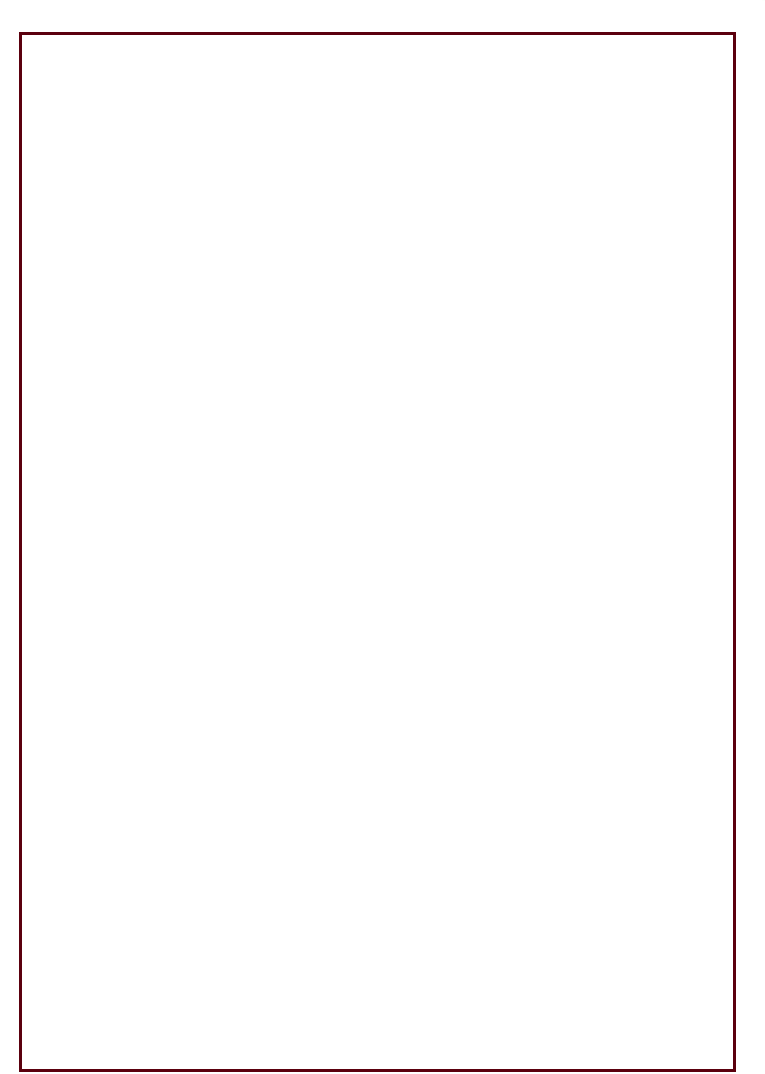
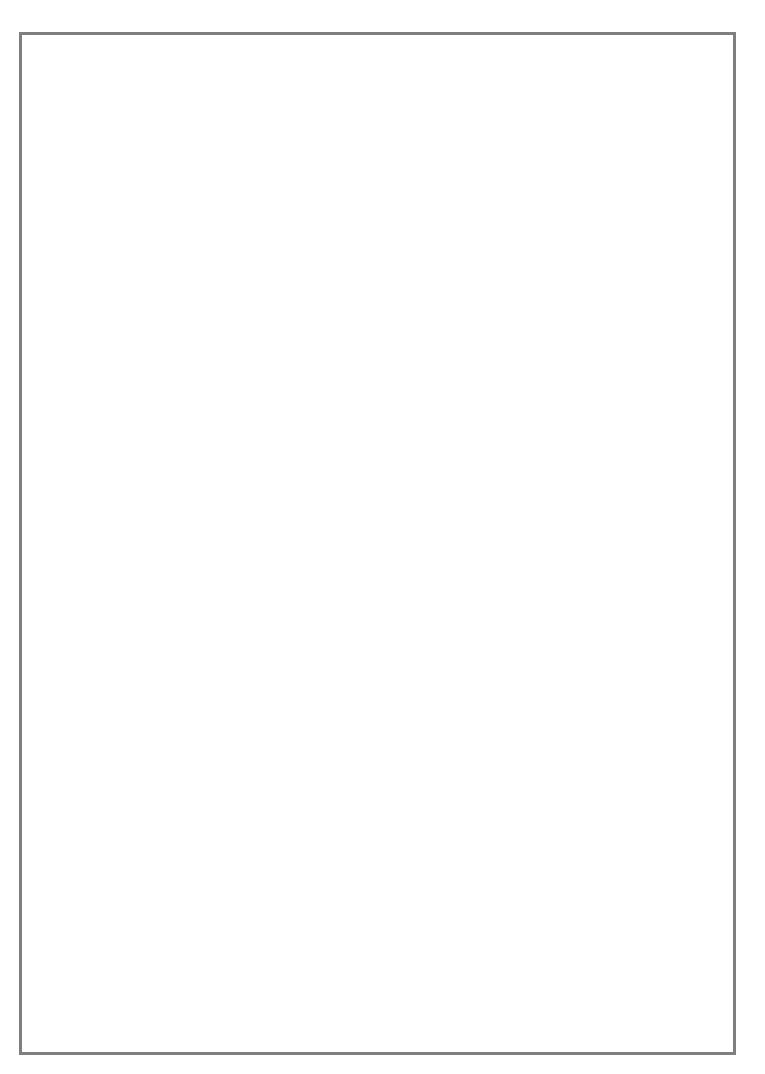
Agregar marcos en reporte de corte

Changed region(s): [[0.0, 0.0307, 0.9621, 1.0]]

diff --git a/js/events.js b/js/events.js
@@ -3630,10 +3630,11 @@ function aceptar_guardar_corte(){
 
 // Guardar un corte
 function guardar_corte(){
-    var usuario_id=localStorage.getItem("id");
+    //var usuario_id=localStorage.getItem("id");
+    var usuario_id= 4;
     $('#caja_herramientas').modal('hide');
 
-    var datos = {
+    /*var datos = {
             "usuario_id": usuario_id,
         };
     $.ajax({
@@ -3648,9 +3649,9 @@ function guardar_corte(){
             //success:problemas_sistema,
             timeout:5000,
             error:problemas_sistema
-        });    
-    //window.open("includes/reporte_corte.php?usuario_id="+usuario_id);
-    guardar_reporte_corte();
+        });    */
+    window.open("includes/reporte_corte.php?usuario_id="+usuario_id);
+    //guardar_reporte_corte();
     return false;
 }
 

diff --git a/includes/reporte_corte.php b/includes/reporte_corte.php
@@ -26,11 +26,11 @@
   // Primera pagina
   $pdf->AddPage();
   // Marco primera pagina
-  //$pdf->Image($fondo_uno,4.8,9,205);
+  $pdf->Image("../images/hoja_margen.png",1.5,-2,211,295);
   // Logo
   //$pdf->Image($imagen,10,8,45);
   // Salto de línea
-  //$pdf->Ln(1);
+  $pdf->Ln(1);
 
   // Fecha y datos generales 
   $pdf->SetFont('Arial','B',8);
@@ -108,12 +108,12 @@
   $pdf->Cell(100,8,iconv("UTF-8", "ISO-8859-1",'Ventas Restaurante'),0,1,'C');
   $pdf->SetFont('Arial','B',7);
   $pdf->SetTextColor(255, 255, 255);
-  $pdf->Cell(42,4,iconv("UTF-8", "ISO-8859-1",'Producto'),0,0,'C',True);
-  $pdf->Cell(10,4,iconv("UTF-8", "ISO-8859-1",'Venta'),0,0,'C',True);
-  $pdf->Cell(15,4,iconv("UTF-8", "ISO-8859-1",'Precio'),0,0,'C',True);
-  $pdf->Cell(15,4,iconv("UTF-8", "ISO-8859-1",'Total'),0,0,'C',True);
-  $pdf->Cell(12,4,iconv("UTF-8", "ISO-8859-1",'En Hab.'),0,0,'C',True);
-  $pdf->Cell(12,4,iconv("UTF-8", "ISO-8859-1",'En Rest.'),0,1,'C',True);
+  $pdf->Cell(42,4,iconv("UTF-8", "ISO-8859-1",'Producto'),1,0,'C',True);
+  $pdf->Cell(10,4,iconv("UTF-8", "ISO-8859-1",'Venta'),1,0,'C',True);
+  $pdf->Cell(15,4,iconv("UTF-8", "ISO-8859-1",'Precio'),1,0,'C',True);
+  $pdf->Cell(15,4,iconv("UTF-8", "ISO-8859-1",'Total'),1,0,'C',True);
+  $pdf->Cell(12,4,iconv("UTF-8", "ISO-8859-1",'En Hab.'),1,0,'C',True);
+  $pdf->Cell(12,4,iconv("UTF-8", "ISO-8859-1",'En Rest.'),1,1,'C',True);
   $pdf->SetFont('Arial','',7);
   $pdf->SetTextColor(0,0,0);
   $cantidad= count($inf->producto_nombre);
@@ -138,9 +138,9 @@
   $pdf->SetFont('Arial','B',7);
   $pdf->SetTextColor(255, 255, 255);
   $pdf->Cell(120,4,iconv("UTF-8", "ISO-8859-1",''),0,0,'C');
-  $pdf->Cell(32,4,iconv("UTF-8", "ISO-8859-1",'Tipo'),0,0,'C',True);
-  $pdf->Cell(20,4,iconv("UTF-8", "ISO-8859-1",'Cant.'),0,0,'C',True);
-  $pdf->Cell(20,4,iconv("UTF-8", "ISO-8859-1",'Total'),0,1,'C',True);
+  $pdf->Cell(32,4,iconv("UTF-8", "ISO-8859-1",'Tipo'),1,0,'C',True);
+  $pdf->Cell(20,4,iconv("UTF-8", "ISO-8859-1",'Cant.'),1,0,'C',True);
+  $pdf->Cell(20,4,iconv("UTF-8", "ISO-8859-1",'Total'),1,1,'C',True);
   $pdf->SetFont('Arial','',7);
   $pdf->SetTextColor(0,0,0);
   $cantidad= $tipo->total_elementos();
@@ -179,8 +179,8 @@
   $pdf->SetFont('Arial','B',7);
   $pdf->SetTextColor(255, 255, 255);
   $pdf->Cell(120,4,iconv("UTF-8", "ISO-8859-1",''),0,0,'C');
-  $pdf->Cell(46,4,iconv("UTF-8", "ISO-8859-1",'Concepto'),0,0,'C',True);
-  $pdf->Cell(26,4,iconv("UTF-8", "ISO-8859-1",'Total'),0,1,'C',True);
+  $pdf->Cell(46,4,iconv("UTF-8", "ISO-8859-1",'Concepto'),1,0,'C',True);
+  $pdf->Cell(26,4,iconv("UTF-8", "ISO-8859-1",'Total'),1,1,'C',True);
   $pdf->SetFont('Arial','',7);
   $pdf->SetTextColor(0,0,0);
   //$cantidad= $tipo->total_elementos();
@@ -214,8 +214,8 @@
   $pdf->SetFont('Arial','B',7);
   $pdf->SetTextColor(255, 255, 255);
   $pdf->Cell(120,4,iconv("UTF-8", "ISO-8859-1",''),0,0,'C');
-  $pdf->Cell(46,4,iconv("UTF-8", "ISO-8859-1",'Concepto'),0,0,'C',True);
-  $pdf->Cell(26,4,iconv("UTF-8", "ISO-8859-1",'Total'),0,1,'C',True);
+  $pdf->Cell(46,4,iconv("UTF-8", "ISO-8859-1",'Concepto'),1,0,'C',True);
+  $pdf->Cell(26,4,iconv("UTF-8", "ISO-8859-1",'Total'),1,1,'C',True);
   $pdf->SetFont('Arial','',7);
   $pdf->SetTextColor(0,0,0);
   $cantidad= $forma_pago->total_elementos();
@@ -229,13 +229,13 @@
 
   $corte_id= $corte->ultima_insercion();
   // Cambiar concepto a inactivo
-  $concepto->cambiar_activo($_GET['usuario_id']);
+  //$concepto->cambiar_activo($_GET['usuario_id']);
   // Cambiar ticket a estado 1 (en corte) y poner el corte que le corresponde
-  $ticket->editar_estado($_GET['usuario_id'],$corte_id,1);
+  //$ticket->editar_estado($_GET['usuario_id'],$corte_id,1);
   
   $logs->guardar_log($_GET['usuario_id'],"Reporte corte con etiqueta: ".$nueva_etiqueta.' del '.$dia.' de '.$mes.' de '.$anio); 
   //$pdf->Output("reporte_corte.pdf","I");// I muestra y F descarga con directorio y D descarga en descargas
-  $pdf->Output("../reportes/corte/reporte_corte_".$nueva_etiqueta.".pdf","F");
+  $pdf->Output("../reportes/corte/reporte_corte_".$nueva_etiqueta.".pdf","I");
   //$pdf->Output("../reportes/reservaciones/cargo_noche/reporte_corte.pdf","I");
       //echo 'Reporte corte';*/
 
